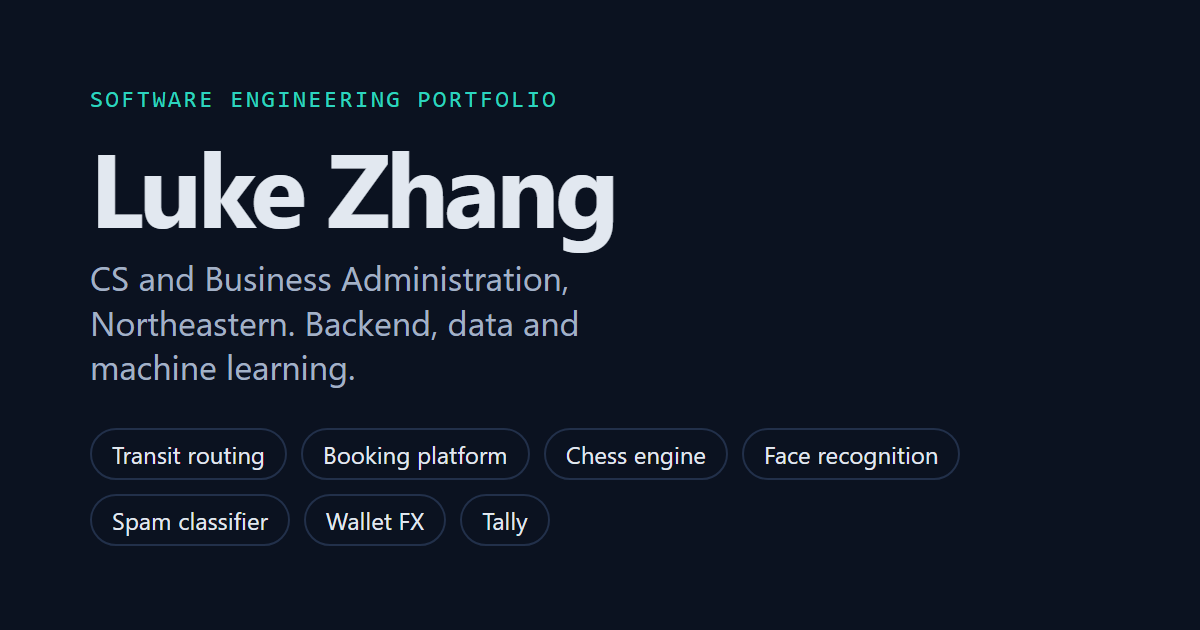
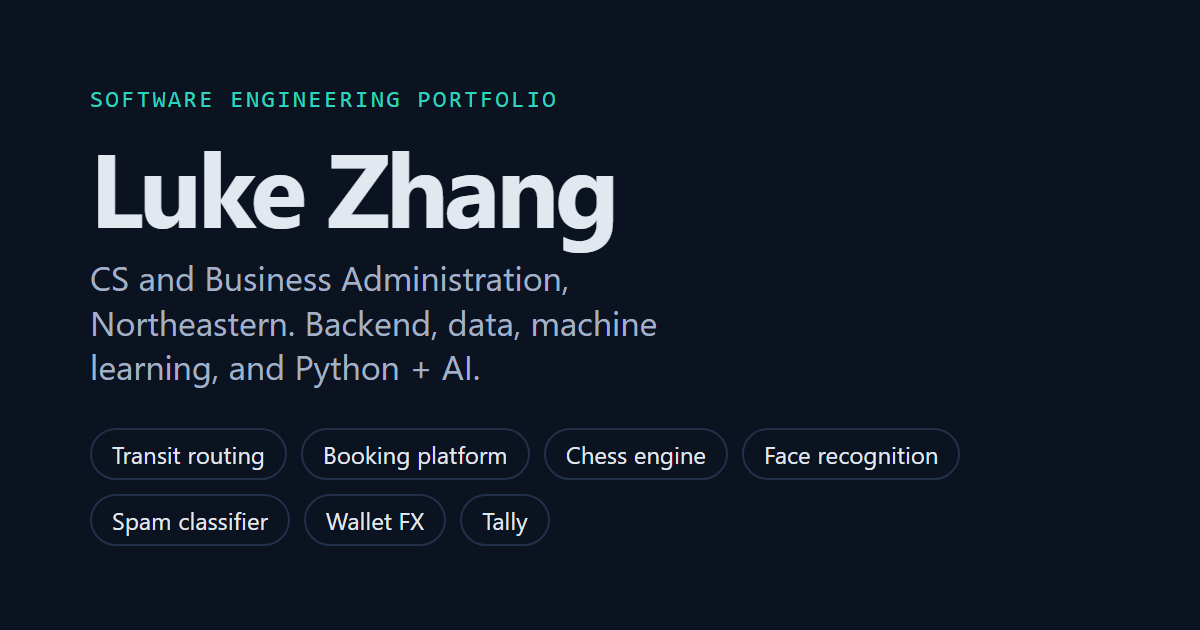
Intro adds Python + AI; stats row merges demos into projects, adds technologies
The banner and link preview read "Backend, data, machine learning, and
Python + AI". "Live demos, no install" joins the open-source projects card,
and its slot now counts the distinct technologies across the projects (21),
derived from the project tags so it stays right as projects change.

Changed region(s): [[0.0617, 0.5429, 0.4008, 0.6333], [0.4317, 0.4825, 0.555, 0.5429]]

diff --git a/index.html b/index.html
@@ -373,7 +373,7 @@
     school: 'Northeastern University',
     program: 'CS and Business Administration',
     status: 'Open to Summer 2027 internships',
-    role: '<strong>Computer Science and Business Administration</strong> at Northeastern University. Backend, data and machine learning.',
+    role: '<strong>Computer Science and Business Administration</strong> at Northeastern University. Backend, data, machine learning, and Python + AI.',
     lede: 'I build systems that can show their working: every project below has a live demo that runs in your browser, a write-up of how it works and what went wrong, and a test suite that checks its own published numbers.',
     bio: [
       "I'm a first-year <strong>Computer Science and Business Administration</strong> student starting at Northeastern University in January 2027 on a Dean's Scholarship.",
@@ -580,9 +580,12 @@
       var b = holder.querySelector('[data-tests]');
       if (b) totalTests += +b.textContent.replace(/,/g, '');
     });
+    var tech = {};
+    PROJECTS.forEach(function (p) { p.tags.forEach(function (t) { tech[t] = true; }); });
+    var allDemo = PROJECTS.every(function (p) { return p.demo; });
     $('stats').innerHTML = [
-      [PROJECTS.length, 'open-source projects'],
-      [PROJECTS.filter(function (p) { return p.demo; }).length, 'live demos, no install'],
+      [PROJECTS.length, 'open-source projects' + (allDemo ? ' · live demos, no install' : '')],
+      [Object.keys(tech).length, 'technologies across the projects'],
       [totalTests.toLocaleString('en-US'), 'automated tests and checks', ' data-tests-total'],
       ['MIT', 'licensed, CI on every push']
     ].map(function (s) { return '<div class="card"><b' + (s[2] || '') + '>' + s[0] + '</b><span>' + s[1] + '</span></div>'; }).join('');

diff --git a/tools/og.html b/tools/og.html
@@ -9,6 +9,6 @@
 </style></head><body>
   <p class="k">Software engineering portfolio</p>
   <h1>Luke Zhang</h1>
-  <p>CS and Business Administration, Northeastern. Backend, data and machine learning.</p>
+  <p>CS and Business Administration, Northeastern. Backend, data, machine learning, and Python + AI.</p>
   <ul><li>Transit routing</li><li>Booking platform</li><li>Chess engine</li><li>Face recognition</li><li>Spam classifier</li><li>Wallet FX</li><li>Tally</li></ul>
 </body></html>
